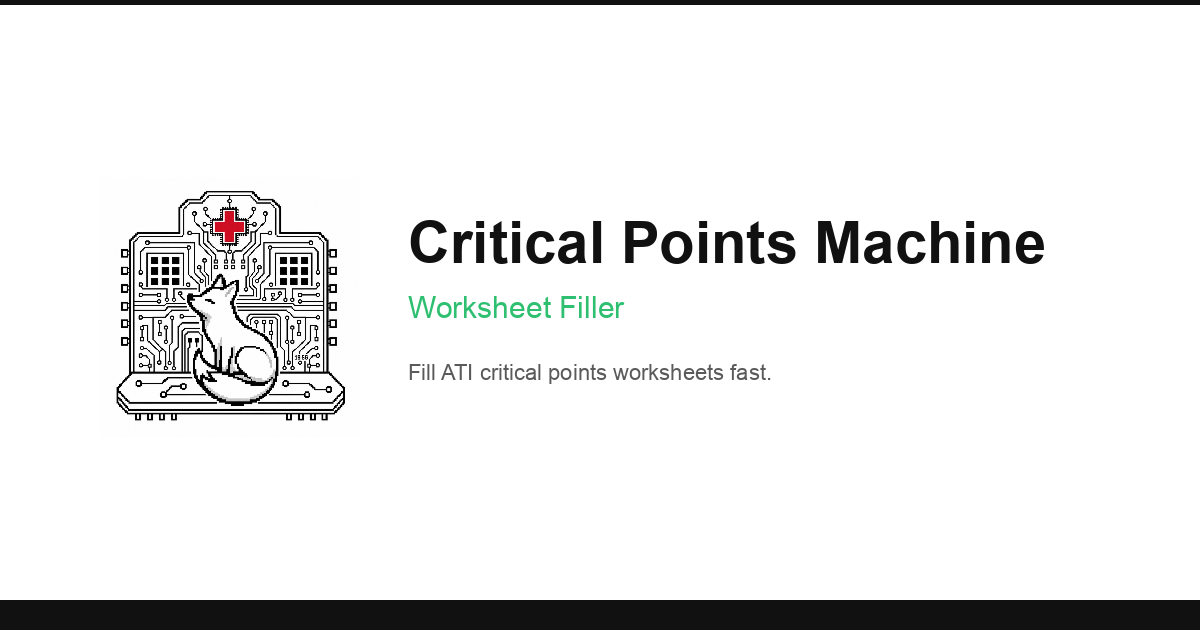
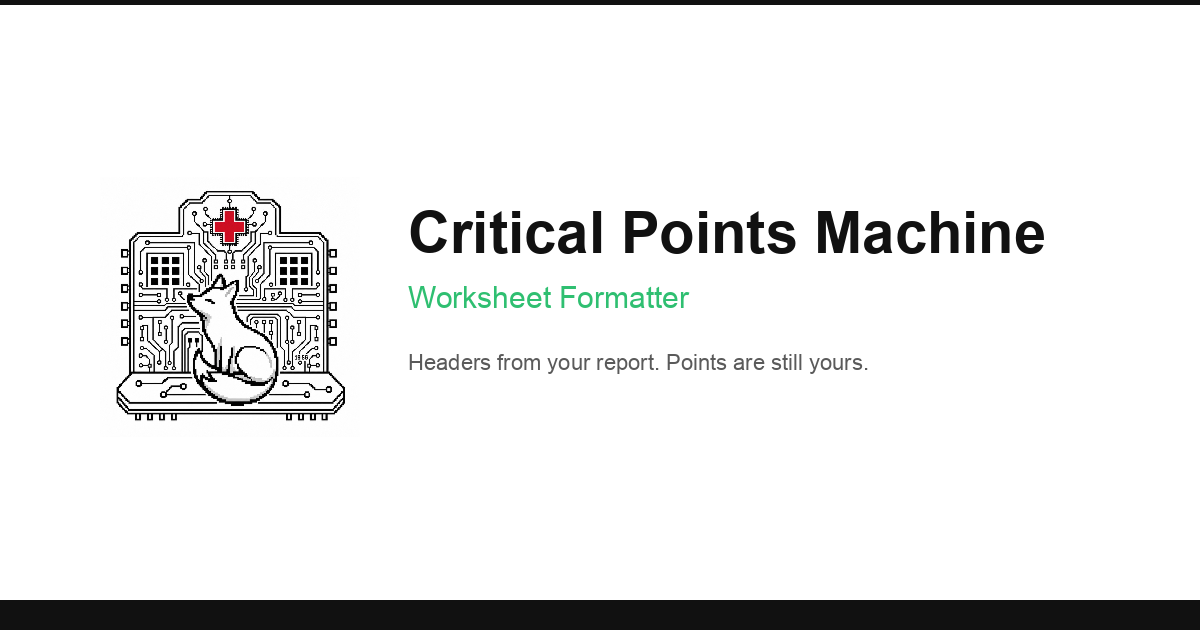
Reframe as a formatter: you write the points, we ease the busywork.

Changed region(s): [[0.3392, 0.3317, 0.8942, 0.4222], [0.3392, 0.5429, 0.7092, 0.6032], [0.3392, 0.4524, 0.5858, 0.5127]]

diff --git a/src/main.js b/src/main.js
@@ -19,10 +19,10 @@ app.innerHTML = `
 
       <header class="hero">
         <p class="eyebrow">Critical Points Machine</p>
-        <h1>Worksheet<br /><span class="title-accent">Filler</span></h1>
+        <h1>Worksheet<br /><span class="title-accent">Formatter</span></h1>
         <p class="lede">
-          A simple web tool for your ATI critical points worksheets.<br />
-          Use it on any computer — nothing to install.
+          We help with the busywork: report headers into the form.<br />
+          You still think through and write the three critical points.
         </p>
       </header>
 
@@ -32,19 +32,20 @@ app.innerHTML = `
         </summary>
         <div class="guide-body">
           <p class="guide-lead">
-            Upload your ATI report. We fill the worksheet headers. You write the three points, then download.
+            This does not write your critical points. It formats Category, Sub Concept, and Content
+            from your ATI report so you can focus on the thinking. Then you download your worksheets.
           </p>
         </div>
       </details>
 
       <section class="tryout">
-        <p class="tryout-kicker">Try it out</p>
-        <p class="tryout-title">Want to see it work?</p>
+        <p class="tryout-kicker">Try a sample</p>
+        <p class="tryout-title">Want to see the easy part?</p>
         <p class="tryout-copy">
-          Download our practice ATI report (no names or school info). Then choose that file below
-          and tap Autofill — same steps you’ll use with your real report.
+          Grab a practice ATI report (no names). Upload it below, fill the headers, then you write
+          the points. Same flow as a real assignment.
         </p>
-        <button id="loadSampleReport" type="button" class="tryout-cta">
+        <button id="loadSampleReport" type="button" class="tryout-cta tryout-cta-bounce">
           Download practice ATI report
         </button>
       </section>
@@ -55,7 +56,7 @@ app.innerHTML = `
           <p class="section-title">ATI Report PDF</p>
         </div>
         <p class="template-note">
-          Choose your report or drag it onto the box below, then autofill the worksheet headers.
+          Drop or choose your report, then fill the headers. The critical points are still yours to write.
         </p>
         <label class="file-field" id="sourceReportDropzone">
           <span class="file-field-copy">
@@ -65,7 +66,7 @@ app.innerHTML = `
           <span class="visually-hidden">Choose ATI report PDF</span>
           <input id="sourceReport" type="file" accept=".pdf,application/pdf" />
         </label>
-        <button id="extractFromReport" type="button">Autofill Headings From Report</button>
+        <button id="extractFromReport" type="button">Fill headers from report</button>
         <p id="status" aria-live="polite"></p>
       </section>
 
@@ -74,18 +75,20 @@ app.innerHTML = `
           <p class="section-kicker">Worksheets</p>
           <p class="section-title">Waiting</p>
         </div>
-        <p id="worksheetHint">After autofill, your three worksheets appear here for review and editing.</p>
+        <p id="worksheetHint">
+          After headers are filled, your three worksheets show up here. Add your own critical points, then save.
+        </p>
       </section>
 
       <section id="worksheetCards" class="worksheets-grid is-hidden"></section>
 
       <section class="section control-grid">
         <div>
-          <p class="section-kicker">Export</p>
+          <p class="section-kicker">Save</p>
           <p class="section-title">Three Worksheets<br /><span class="title-line">One PDF</span></p>
         </div>
-        <p class="template-note">Review P1–P3, then save them together.</p>
-        <button id="generateCombined" type="button">Generate Combined PDF</button>
+        <p class="template-note">Review P1–P3 (including the points you wrote), then save them together.</p>
+        <button id="generateCombined" type="button">Download combined PDF</button>
       </section>
 
       <section class="section control-grid human-check">
@@ -94,9 +97,8 @@ app.innerHTML = `
           <p class="section-title">Check your work</p>
         </div>
         <p class="template-note">
-          Tools aren’t perfect. It’s up to the human to make sure your work is correct.
-          We want everyone to do their best, so compare your output to the official reference
-          grading criteria below.
+          This tool only formats. The critical points are your thinking. Make sure they look right,
+          and compare with the official reference grading criteria below.
         </p>
         <a
           class="button-link"
@@ -1173,7 +1175,7 @@ const renderWorksheetCards = () => {
         </label>
 
         <div class="worksheet-actions">
-          <button class="generate-one" data-worksheet-id="${id}" type="button">Generate ${id.toUpperCase()}</button>
+          <button class="generate-one" data-worksheet-id="${id}" type="button">Download ${id.toUpperCase()} PDF</button>
         </div>
       </article>
     `,
@@ -1460,10 +1462,10 @@ updateWorksheetFilenamePreviews()
 setWorksheetEditorVisibility(false)
 
 const runAutofillFromFile = async (file) => {
-  setStatus('Reading headings from report...')
+  setStatus('Reading headers from report...')
   const filledSummary = await extractAndPopulateWorksheets(file)
   setWorksheetEditorVisibility(true)
-    setStatus(`Filled headings for:\n${filledSummary}`)
+  setStatus(`Headers filled for:\n${filledSummary}`)
 }
 
 extractButtonEl.addEventListener('click', async () => {
@@ -1496,6 +1498,7 @@ const downloadBlobFile = (blob, filename) => {
 loadSampleReportEl.addEventListener('click', async () => {
   try {
     loadSampleReportEl.disabled = true
+    loadSampleReportEl.classList.remove('tryout-cta-bounce')
     setStatus('Downloading practice ATI report…')
     const sampleUrl = new URL('sample-ati-report.pdf', document.baseURI).toString()
     const response = await fetch(sampleUrl)
@@ -1505,7 +1508,7 @@ loadSampleReportEl.addEventListener('click', async () => {
 
     const blob = await response.blob()
     downloadBlobFile(blob, 'practice-sample-ati-report.pdf')
-    setStatus('Practice ATI report downloaded. Choose that file below, then tap Autofill.')
+    setStatus('Practice report downloaded. Choose that file below, then tap Fill headers from report.')
     document.querySelector('.tool-start')?.scrollIntoView({ behavior: 'smooth', block: 'start' })
   } catch (error) {
     console.error(error)
@@ -1523,7 +1526,7 @@ sourceReportEl.addEventListener('change', () => {
     return
   }
 
-  setStatus(`Selected ${file.name}. Tap Autofill Headings From Report when you’re ready.`)
+  setStatus(`Selected ${file.name}. Tap Fill headers from report when you’re ready.`)
 })
 
 const isPdfFile = (file) => {
@@ -1542,7 +1545,7 @@ const assignReportFile = (file) => {
   const transfer = new DataTransfer()
   transfer.items.add(file)
   sourceReportEl.files = transfer.files
-  setStatus(`Selected ${file.name}. Tap Autofill Headings From Report when you’re ready.`)
+  setStatus(`Selected ${file.name}. Tap Fill headers from report when you’re ready.`)
 }
 
 ;['dragenter', 'dragover'].forEach((eventName) => {
@@ -1584,12 +1587,12 @@ sourceReportDropzoneEl.addEventListener('drop', (event) => {
 
 document.querySelector('#generateCombined').addEventListener('click', async () => {
   try {
-    setStatus('Generating combined PDF for p1, p2, p3...')
+    setStatus('Preparing combined PDF for P1, P2, and P3...')
     await downloadCombinedPdf()
-    setStatus('Generated combined worksheet PDF (3 pages).')
+    setStatus('Combined worksheet PDF ready (3 pages).')
   } catch (error) {
     console.error(error)
-    setStatus(`Could not generate combined PDF: ${formatError(error)}`, true)
+    setStatus(`Could not download combined PDF: ${formatError(error)}`, true)
   }
 })
 
@@ -1599,13 +1602,13 @@ for (const button of document.querySelectorAll('.generate-one')) {
     if (!worksheetId) return
 
     try {
-      setStatus(`Generating PDF for ${worksheetId.toUpperCase()}...`)
+      setStatus(`Preparing ${worksheetId.toUpperCase()} PDF...`)
       const values = getWorksheetValues(worksheetId)
       await downloadFilledPdf(values, worksheetId)
-      setStatus(`Generated worksheet PDF: ${worksheetId}.`)
+      setStatus(`${worksheetId.toUpperCase()} PDF ready.`)
     } catch (error) {
       console.error(error)
-      setStatus(`Could not generate ${worksheetId} PDF: ${formatError(error)}`, true)
+      setStatus(`Could not download ${worksheetId} PDF: ${formatError(error)}`, true)
     }
   })
 }

diff --git a/index.html b/index.html
@@ -4,10 +4,10 @@
     <meta charset="UTF-8" />
     <meta name="viewport" content="width=device-width, initial-scale=1.0" />
 
-    <title>Critical Points Machine — Worksheet Filler</title>
+    <title>Critical Points Machine — Worksheet Formatter</title>
     <meta
       name="description"
-      content="A simple web tool for your ATI critical points worksheets. Upload your report, fill the headers, write your points, download."
+      content="Formats ATI critical points worksheet headers from your report. You still write the three points."
     />
     <meta name="author" content="STG" />
     <meta name="theme-color" content="#111111" />
@@ -24,10 +24,10 @@
 
     <meta property="og:type" content="website" />
     <meta property="og:site_name" content="Critical Points Machine" />
-    <meta property="og:title" content="Critical Points Machine — Worksheet Filler" />
+    <meta property="og:title" content="Critical Points Machine — Worksheet Formatter" />
     <meta
       property="og:description"
-      content="Upload your ATI report. We fill the worksheet headers. You write the three points, then download."
+      content="Formats worksheet headers from your ATI report. You still write the three critical points."
     />
     <meta
       property="og:url"
@@ -42,10 +42,10 @@
     <meta property="og:image:alt" content="STG pixel logo for Critical Points Machine" />
 
     <meta name="twitter:card" content="summary_large_image" />
-    <meta name="twitter:title" content="Critical Points Machine — Worksheet Filler" />
+    <meta name="twitter:title" content="Critical Points Machine — Worksheet Formatter" />
     <meta
       name="twitter:description"
-      content="Upload your ATI report. We fill the worksheet headers. You write the three points, then download."
+      content="Formats worksheet headers from your ATI report. You still write the three critical points."
     />
     <meta
       name="twitter:image"

diff --git a/src/style.css b/src/style.css
@@ -209,6 +209,32 @@ body {
   margin-top: 4px;
 }
 
+.tryout-cta-bounce {
+  animation: tryout-bounce 1.6s ease-in-out infinite;
+}
+
+@keyframes tryout-bounce {
+  0%,
+  100% {
+    transform: translateY(0);
+  }
+  40% {
+    transform: translateY(-7px);
+  }
+  55% {
+    transform: translateY(0);
+  }
+  70% {
+    transform: translateY(-3px);
+  }
+}
+
+@media (prefers-reduced-motion: reduce) {
+  .tryout-cta-bounce {
+    animation: none;
+  }
+}
+
 .text-link {
   color: var(--black);
   text-decoration: underline;
